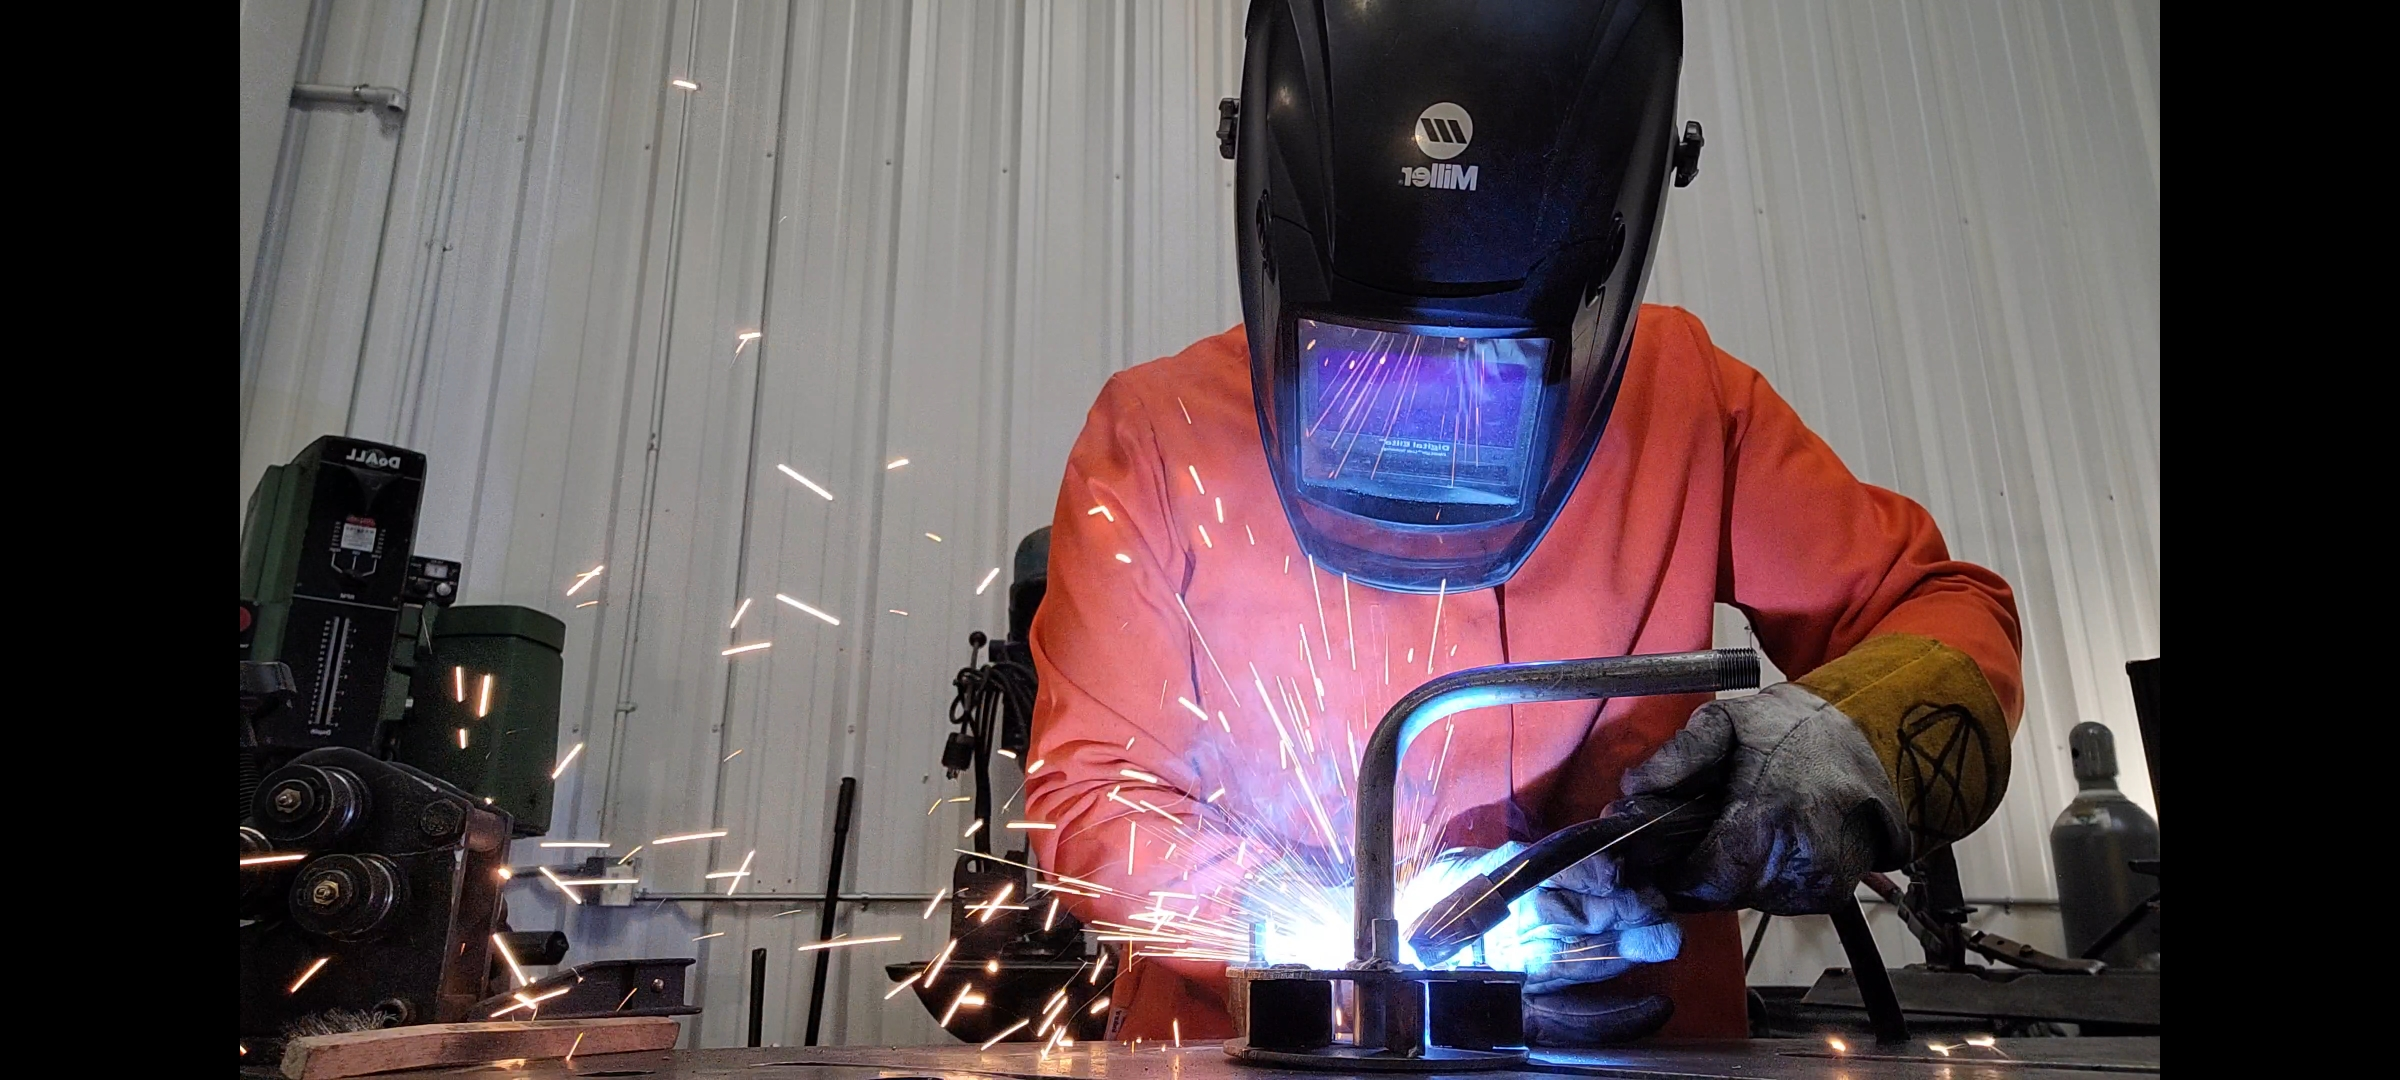
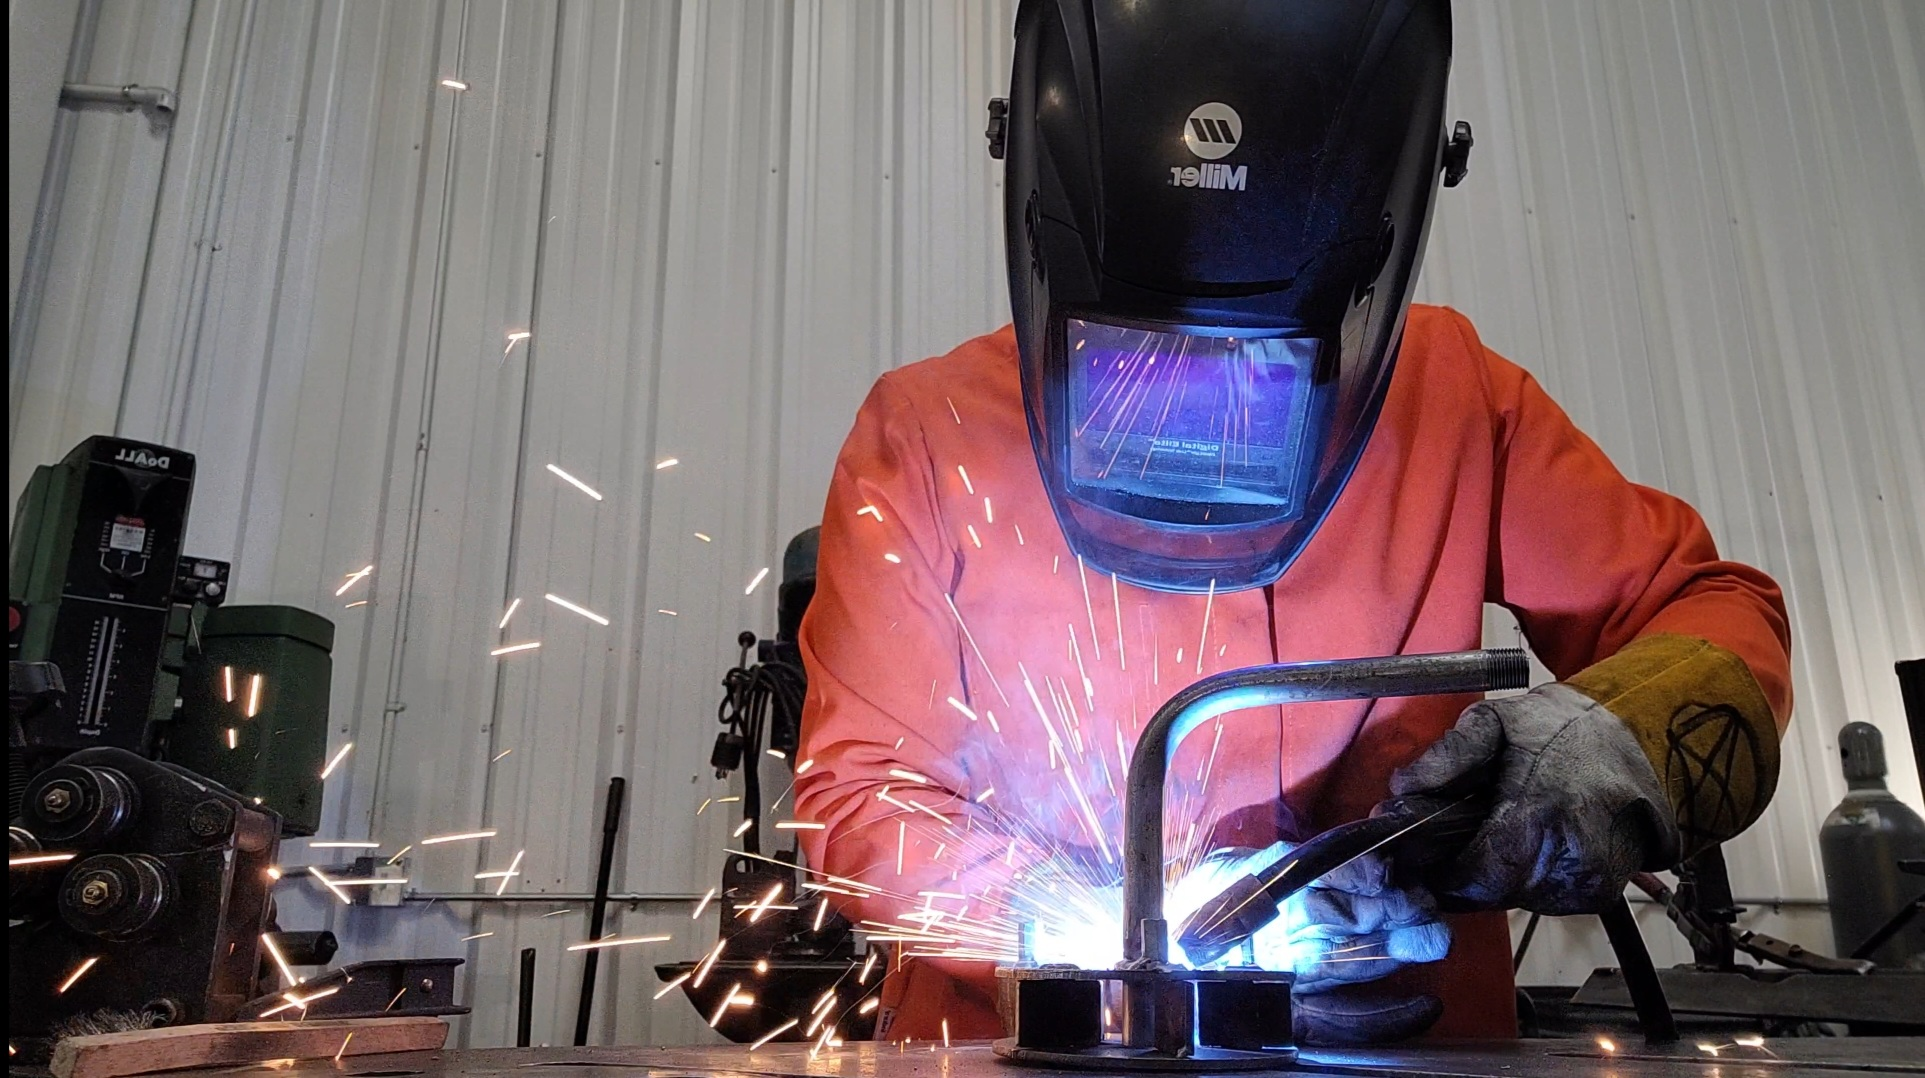
WIP: added radius and styling to weld1 image.

diff --git a/index.html b/index.html
@@ -12,7 +12,7 @@
   <body background="img/space.webp">
     <div class="important"> <div class="background">
       <h1><strong><marquee>Welcome To My Portfolio!</marquee></strong></h1>
-      <center><img src="img/weld1.jpg" alt="A welding photo of me"></center> 
+      <img class="weld1" src="img/weld1.jpg" alt="A welding photo of me">
       <h3><em>About Me:</em></h3>
       <p class="important">Hello! My name is Manuel. I have been a welder for approximately 6 years.
        I began my journey at <a href="https://www.epicodus.com/">Epicodus</a> last week!

diff --git a/css/styles.css b/css/styles.css
@@ -1,3 +1,24 @@
 h1 {
   color: greenyellow;
+  text-align: center;
+  font-style: oblique;
+  font-size: 80px;
+  border: 3px solid purple;
+}
+
+h3 {
+  text-align: center;
+  font-family: fantasy;
+  color: greenyellow;
+  font-size: 50px;
+  border: 3px solid purple;
+  padding: 12px;
+}
+
+.weld1 {
+  width:50%;
+  display: block;
+  margin-left: auto;
+  margin-right: auto;
+  border-radius: 20%;
 }
